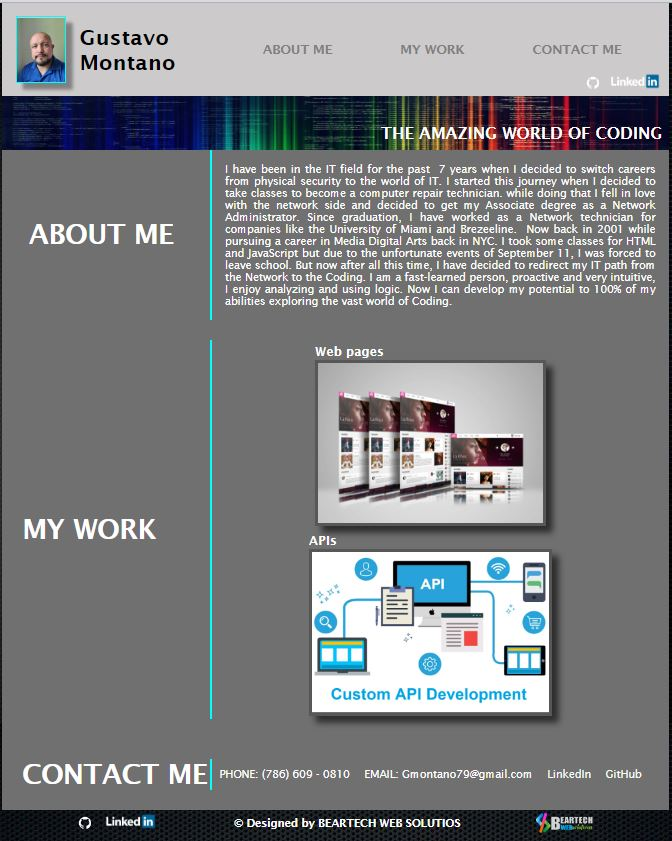
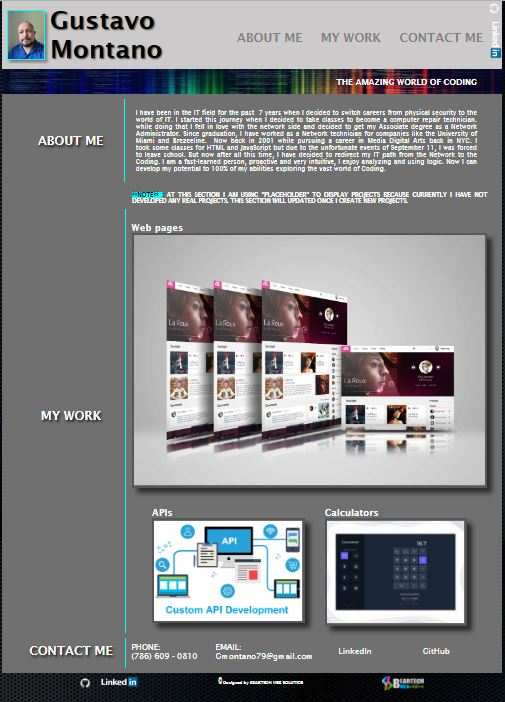
Added to README.md file new screenshots

diff --git a/README.md b/README.md
@@ -18,7 +18,13 @@ PROJECTS. THIS SECTION WILL UPDATED ONCE I CREATE NEW PROJECTS.
 
 The deployment application link is https://gmontano79.github.io/portfolio/
 
-![alt Page Screenshoot](./img/portfoliopage-screenshot.JPG)
+### **Desktop View**
+
+![alt Page Screenshoot - Desktop](./img/portfoliopage-screenshot.JPG)
+
+### **Mobile View**
+
+![alt Page Screenshoot - mobile](./img/portfoliopage-screenshot-mobile.JPG)
 
 ## Credits
 
